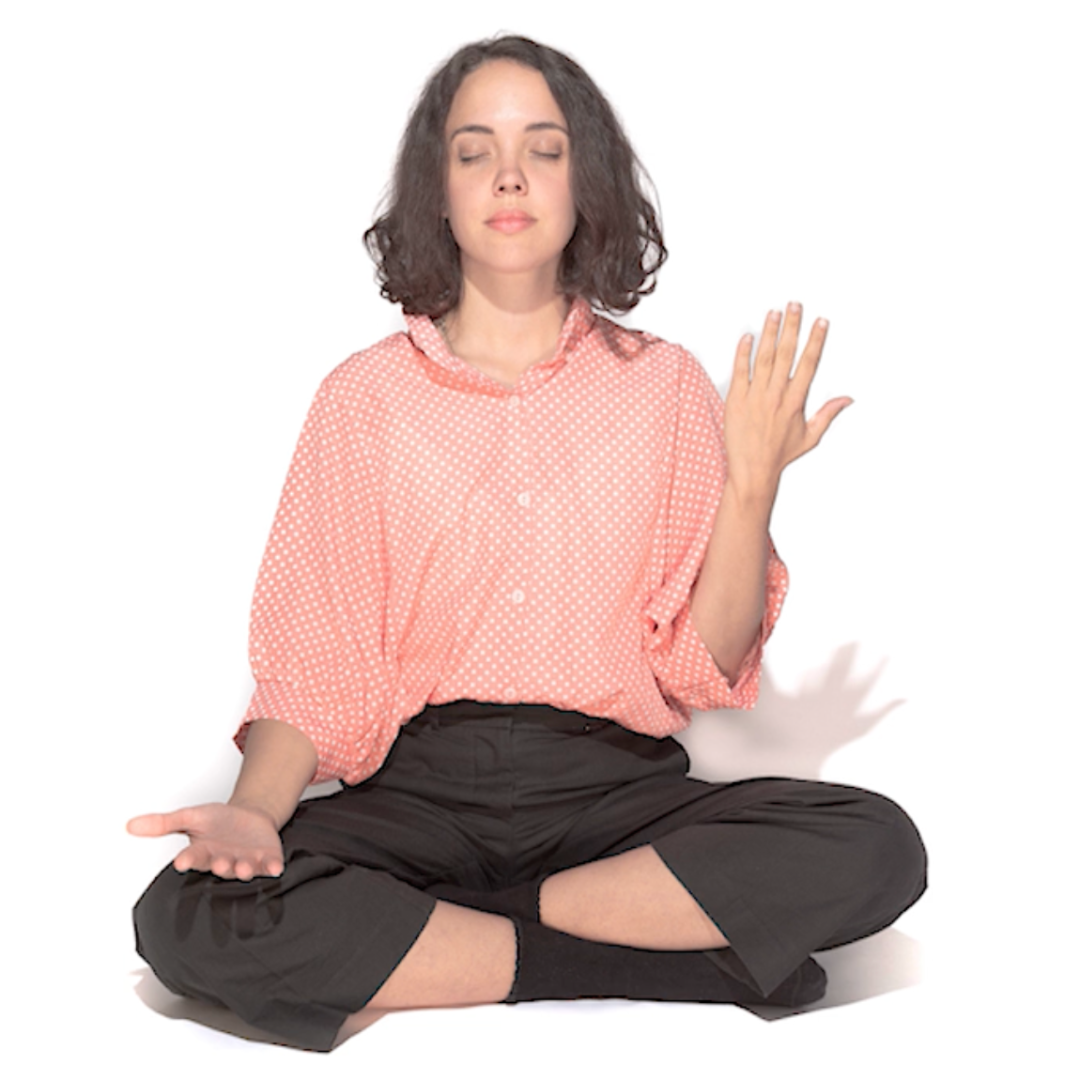
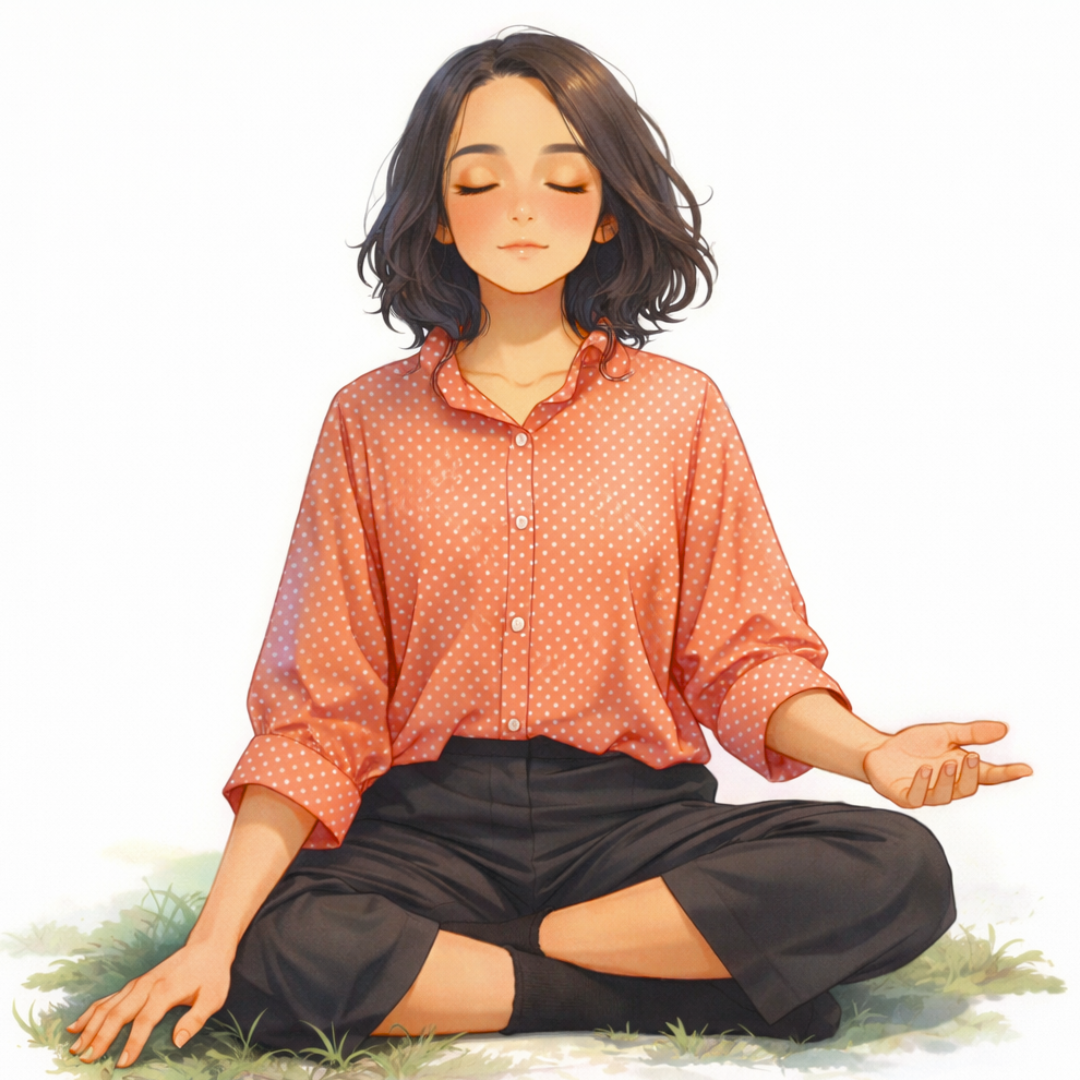
update images

diff --git a/src/app/(auth)/meditate/page.tsx b/src/app/(auth)/meditate/page.tsx
@@ -55,8 +55,8 @@ const content = {
     stepsHeader: ['మన నాళాల సమతుల్యత', 'మూడు మార్గదర్శిత దశలతో సూక్ష్మ వ్యవస్థను శుభ్రపరచండి', 'ధ్యానం ముందు ఎడమ, కుడి, మధ్య నాళాలను సమతుల్యం చేసేందుకు ఈ మూడు సులభమైన పద్ధతులను ఉపయోగించండి.'],
     stepsMatajiNote: 'ఈ బ్యాలెన్సింగ్ దశలను శ్రీమాతాజీ ముందు మృదువైన ధ్యాసతో, హృదయపూర్వకంగా ఆచరించండి.',
     steps: [
-      ['ఎడమ నాళం శుభ్రపరచడం', 'ఎడమ నాళాన్ని శుభ్రపరచడం వల్ల అధిక భావోద్వేగం మరియు గతంలోనే ఉండిపోవడం తగ్గుతుంది.', '/meditation-steps/1.png', 'ఎడమ చేయిని ఒడిలో ఉంచి, కుడి చేయిని భూమి వైపు ఉంచండి. ఎడమ అరపై ధ్యాస ఉంచండి.', 'ఆఫర్మేషన్: మాతాజీ, దయచేసి నా ఎడమ నాళాన్ని శుభ్రపరచి మాతృభూమి ద్వారా అన్ని ప్రతికూలతలను తొలగించండి.'],
-      ['కుడి నాళం శుభ్రపరచడం', 'కుడి వైపు శుభ్రపరచడం వల్ల అధిక ప్రణాళిక, ఒత్తిడిగల ఆలోచనలు తగ్గుతాయి.', '/meditation-steps/2.png', 'కుడి చేయిని ఒడిలో ఉంచి, ఎడమ చేయిని పైకి వంచి ఆకాశం వైపు ఉంచండి. కుడి అరపై ధ్యాస ఉంచండి.', 'ఆఫర్మేషన్: మాతాజీ, దయచేసి నా కుడి నాళాన్ని శుభ్రపరచి ఆకాశ తత్వం ద్వారా అన్ని ప్రతికూలతలను తొలగించండి.'],
+      ['ఎడమ నాళం శుభ్రపరచడం', 'ఎడమ నాళాన్ని శుభ్రపరచడం వల్ల అధిక భావోద్వేగం మరియు గతంలోనే ఉండిపోవడం తగ్గుతుంది.', '/meditation-steps/2.png', 'ఎడమ చేయిని ఒడిలో ఉంచి, కుడి చేయిని భూమి వైపు ఉంచండి. ఎడమ అరపై ధ్యాస ఉంచండి.', 'ఆఫర్మేషన్: మాతాజీ, దయచేసి నా ఎడమ నాళాన్ని శుభ్రపరచి మాతృభూమి ద్వారా అన్ని ప్రతికూలతలను తొలగించండి.'],
+      ['కుడి నాళం శుభ్రపరచడం', 'కుడి వైపు శుభ్రపరచడం వల్ల అధిక ప్రణాళిక, ఒత్తిడిగల ఆలోచనలు తగ్గుతాయి.', '/meditation-steps/1.png', 'కుడి చేయిని ఒడిలో ఉంచి, ఎడమ చేయిని పైకి వంచి ఆకాశం వైపు ఉంచండి. కుడి అరపై ధ్యాస ఉంచండి.', 'ఆఫర్మేషన్: మాతాజీ, దయచేసి నా కుడి నాళాన్ని శుభ్రపరచి ఆకాశ తత్వం ద్వారా అన్ని ప్రతికూలతలను తొలగించండి.'],
       ['మధ్య నాళం శుభ్రపరచడం', 'ఈ రెండు నాళాలు శుభ్రమైన తర్వాత ధ్యాన స్థితిలో ఉండటం మరింత సులభమవుతుంది.', '/meditation-steps/3.png', 'రెండు చేతులను ఒడిలో ఉంచి, మీ ధ్యాసను తల పైభాగమైన సహస్రారంపై ఉంచండి.', 'ఆఫర్మేషన్: మాతాజీ, దయచేసి మాకు నిర్విచార చైతన్య స్థితిని ప్రసాదించి ఆనందంలో నిలిపించండి.'],
     ],
     subtleHeader: ['సూక్ష్మ సమతుల్యత', 'సూక్ష్మ వ్యవస్థను అర్థం చేసుకోండి', 'క్రింద ఉన్న సూక్ష్మ వ్యవస్థ చిత్రం ధ్యానం, సమతుల్యత, మరియు అంతరారూఢికి మద్దతు ఇచ్చే నాళాలు మరియు చక్రాలను చూపిస్తుంది.'],
